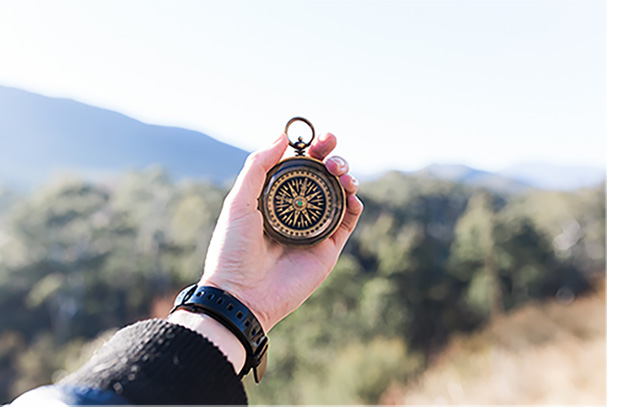
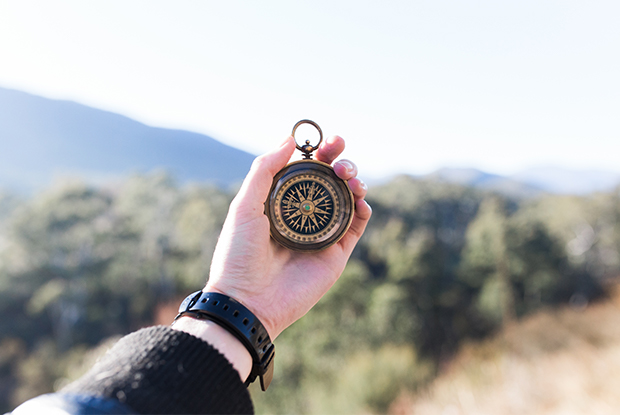
finished all tasks

diff --git a/index.html b/index.html
@@ -19,10 +19,19 @@
 					srcset="Assets/travel-images/ResizedImages/bridge-in-germany_310@ 1x.jpg,
 					Assets/travel-images/ResizedImages/bridge-in-germany_310@2x.jpg" 2x,> -->
 				<picture>
-					<source media="(min-width:400px)"
-						srcset="Assets/travel-images/ResizedImages/bridge-in-germany_310@ 1x.jpg,
+					<source media="(max-width:400px)"
+						srcset="Assets/travel-images/ResizedImages/bridge-in-germany_310@1x.jpg,
 						Assets/travel-images/ResizedImages/bridge-in-germany_310@2x.jpg 2x" />
-					<img src="http://placehold.it/300" alt="Bridge in Germany">
+					<source media="(max-width:507px)"
+						srcset="Assets/travel-images/ResizedImages/bridge-in-germany_507@1x.jpg,
+						Assets/travel-images/ResizedImages/bridge-in-germany_507@2x.jpg 2x" />
+					<source media="(min-width:508px) and (max-width: 999px)"
+						srcset="Assets/travel-images/ResizedImages/bridge-in-germany_797@1x.jpg,
+						Assets/travel-images/ResizedImages/bridge-in-germany_797@2x.jpg 2x" />
+					<source media="(min-width:1000px)"
+						srcset="Assets/travel-images/ResizedImages/bridge-in-germany_310@1x.jpg,
+						Assets/travel-images/ResizedImages/bridge-in-germany_310@2x.jpg 2x" />
+					<img src="Assets/travel-images/bridge-in-germany.jpg" alt="Bridge in Germany">
 				</picture>
 				<div class="caption">
 					<p class="author">Lukas Becker</p>
@@ -30,56 +39,168 @@
 				</div>
 			</li>
 			<li>
-				<img src="Assets/travel-images/compass.jpg" alt="compass">
+				<picture>
+					<source media="(max-width:400px)"
+						srcset="Assets/travel-images/ResizedImages/compass_310@1x.jpg,
+						Assets/travel-images/ResizedImages/compass_310@2x.jpg 2x" />
+					<source media="(max-width:507px)"
+						srcset="Assets/travel-images/ResizedImages/compass_507@1x.jpg,
+						Assets/travel-images/ResizedImages/compass_507@2x.jpg 2x" />
+					<source media="(min-width:508px) and (max-width: 999px)"
+						srcset="Assets/travel-images/ResizedImages/compass_797@1x.jpg,
+						Assets/travel-images/ResizedImages/compass_797@2x.jpg 2x" />
+					<source media="(min-width:1000px)"
+						srcset="Assets/travel-images/ResizedImages/compass_310@1x.jpg,
+						Assets/travel-images/ResizedImages/compass_310@2x.jpg 2x" />
+					<img src="Assets/travel-images/compass.jpg" alt="compass">
+				</picture>
 				<div class="caption">
 					<p class="author">Heidi Sandstrom</p>
 					<p class="town">Melbourne, Australia</p>
 				</div>
 			</li>
 			<li>
-				<img src="Assets/travel-images/dufflebag.jpg" alt="duffle bag">
+				<picture>
+					<source media="(max-width:400px)"
+						srcset="Assets/travel-images/ResizedImages/dufflebag_310@1x.jpg,
+						Assets/travel-images/ResizedImages/dufflebag_310@2x.jpg 2x" />
+					<source media="(max-width:507px)"
+						srcset="Assets/travel-images/ResizedImages/dufflebag_507@1x.jpg,
+						Assets/travel-images/ResizedImages/dufflebag_507@2x.jpg 2x" />
+					<source media="(min-width:508px) and (max-width: 999px)"
+						srcset="Assets/travel-images/ResizedImages/dufflebag_797@1x.jpg,
+						Assets/travel-images/ResizedImages/dufflebag_797@2x.jpg 2x" />
+					<source media="(min-width:1000px)"
+						srcset="Assets/travel-images/ResizedImages/dufflebag_310@1x.jpg,
+						Assets/travel-images/ResizedImages/dufflebag_310@2x.jpg 2x" />
+					<img src="Assets/travel-images/dufflebag.jpg" alt="duffle bag">
+				</picture>
 				<div class="caption">
 					<p class="author">Harsh Jadav</p>
 					<p class="town">Gandhinagar, India</p>	
 				</div>
 			</li>
 			<li>
-				<img src="Assets/travel-images/geyser-iceland.jpg" alt="Geyser in Iceland">
+				<picture>
+					<source media="(max-width:400px)"
+						srcset="Assets/travel-images/ResizedImages/geyser-iceland_310@1x.jpg,
+						Assets/travel-images/ResizedImages/geyser-iceland_310@2x.jpg 2x" />
+					<source media="(max-width:507px)"
+						srcset="Assets/travel-images/ResizedImages/geyser-iceland_507@1x.jpg,
+						Assets/travel-images/ResizedImages/geyser-iceland_507@2x.jpg 2x" />
+					<source media="(min-width:508px) and (max-width: 999px)"
+						srcset="Assets/travel-images/ResizedImages/geyser-iceland_797@1x.jpg,
+						Assets/travel-images/ResizedImages/geyser-iceland_797@2x.jpg 2x" />
+					<source media="(min-width:1000px)"
+						srcset="Assets/travel-images/ResizedImages/geyser-iceland_310@1x.jpg,
+						Assets/travel-images/ResizedImages/geyser-iceland_310@2x.jpg 2x" />
+					<img src="Assets/travel-images/geyser-iceland.jpg" alt="Geyser in Iceland">
+				</picture>
 				<div class="caption">
 					<p class="author">Gian-Reto Tarnutzer</p>
 					<p class="town">Strokkur Geyser, Selfoss, Iceland</p>
 				</div>
 			</li>
 			<li>
-				<img src="Assets/travel-images/golden-gate.jpg" alt="Golden Gate Bridge">
+				<picture>
+					<source media="(max-width:400px)"
+						srcset="Assets/travel-images/ResizedImages/geyser-iceland_310@1x.jpg,
+						Assets/travel-images/ResizedImages/golden-gate_310@2x.jpg 2x" />
+					<source media="(max-width:507px)"
+						srcset="Assets/travel-images/ResizedImages/golden-gate_507@1x.jpg,
+						Assets/travel-images/ResizedImages/golden-gate_507@2x.jpg 2x" />
+					<source media="(min-width:508px) and (max-width: 999px)"
+						srcset="Assets/travel-images/ResizedImages/golden-gate_797@1x.jpg,
+						Assets/travel-images/ResizedImages/golden-gate_797@2x.jpg 2x" />
+					<source media="(min-width:1000px)"
+						srcset="Assets/travel-images/ResizedImages/golden-gate_310@1x.jpg,
+						Assets/travel-images/ResizedImages/golden-gate_310@2x.jpg 2x" />
+					<img src="Assets/travel-images/golden-gate.jpg" alt="Golden Gate Bridge">
+				</picture>
 					<div class="caption">
 						<p class="author">Ian Schneider</p>
 						<p class="town">San Francisco, United States</p>
 					</div>
 			</li>
-			<li>
-				<img src="Assets/travel-images/mountains-clouds.jpg" alt="Mountains and Clouds">
+			<li>	
+				<picture>
+					<source media="(max-width:400px)"
+						srcset="Assets/travel-images/ResizedImages/mountains-clouds_310@1x.jpg,
+						Assets/travel-images/ResizedImages/mountains-clouds_310@2x.jpg 2x" />
+					<source media="(max-width:507px)"
+						srcset="Assets/travel-images/ResizedImages/mountains-clouds_507@1x.jpg,
+						Assets/travel-images/ResizedImages/mountains-clouds_507@2x.jpg 2x" />
+					<source media="(min-width:508px) and (max-width: 999px)"
+						srcset="Assets/travel-images/ResizedImages/mountains-clouds_797@1x.jpg,
+						Assets/travel-images/ResizedImages/mountains-clouds_797@2x.jpg 2x" />
+					<source media="(min-width:1000px)"
+						srcset="Assets/travel-images/ResizedImages/mountains-clouds_310@1x.jpg,
+						Assets/travel-images/ResizedImages/mountains-clouds_310@2x.jpg 2x" />
+					<img src="Assets/travel-images/mountains-clouds.jpg" alt="Mountains and Clouds">
+				</picture>
 				<div class="caption">
 					<p class="author">Luca Baggio</p>
 					<p class="town">Rifugio pedrotti alla Rosetta, Italy</p>
 				</div>
 			</li>
 			<li>
-				<img src="Assets/travel-images/surfboard-truck.jpg" alt="truck with surfboard">
+				<picture>
+					<source media="(max-width:400px)"
+						srcset="Assets/travel-images/ResizedImages/surfboard-truck_310@1x.jpg,
+						Assets/travel-images/ResizedImages/surfboard-truck_310@2x.jpg 2x" />
+					<source media="(max-width:507px)"
+						srcset="Assets/travel-images/ResizedImages/surfboard-truck_507@1x.jpg,
+						Assets/travel-images/ResizedImages/surfboard-truck_507@2x.jpg 2x" />
+					<source media="(min-width:508px) and (max-width: 999px)"
+						srcset="Assets/travel-images/ResizedImages/surfboard-truck_797@1x.jpg,
+						Assets/travel-images/ResizedImages/surfboard-truck_797@2x.jpg 2x" />
+					<source media="(min-width:1000px)"
+						srcset="Assets/travel-images/ResizedImages/surfboard-truck_310@1x.jpg,
+						Assets/travel-images/ResizedImages/surfboard-truck_310@2x.jpg 2x" />
+					<img src="Assets/travel-images/surfboard-truck.jpg" alt="truck with surfboard">
+				</picture>
 				<div class="caption">
 					<p class="author">Ross Sokolovski</p>
 					<p class="town">Berlin, Germany</p>
 				</div>
 			</li>
 			<li>
-				<img src="Assets/travel-images/temple-trail.jpg" alt="Trail at Temple">
+				<picture>
+					<source media="(max-width:400px)"
+						srcset="Assets/travel-images/ResizedImages/temple-trail_310@1x.jpg,
+						Assets/travel-images/ResizedImages/temple-trail_310@2x.jpg 2x" />
+					<source media="(max-width:507px)"
+						srcset="Assets/travel-images/ResizedImages/temple-trail_507@1x.jpg,
+						Assets/travel-images/ResizedImages/temple-trail_507@2x.jpg 2x" />
+					<source media="(min-width:508px) and (max-width: 999px)"
+						srcset="Assets/travel-images/ResizedImages/temple-trail_797@1x.jpg,
+						Assets/travel-images/ResizedImages/temple-trail_797@2x.jpg 2x" />
+					<source media="(min-width:1000px)"
+						srcset="Assets/travel-images/ResizedImages/temple-trail_310@1x.jpg,
+						Assets/travel-images/ResizedImages/temple-trail_310@2x.jpg 2x" />
+					<img src="Assets/travel-images/temple-trail.jpg" alt="Trail at Temple">
+				</picture>
 				<div class="caption">
 					<p class="author">Lin Mei</p>
 					<p class="town">Fushimi inari Trail, Kyöto-shi, Japan</p>
 				</div>
 			</li>
 			<li>
-				<img src="Assets/travel-images/waterfall-rainbow.jpg" alt="Waterfall and Rainbow">
+				<picture>
+					<source media="(max-width:400px)"
+						srcset="Assets/travel-images/ResizedImages/waterfall-rainbow_310@1x.jpg,
+						Assets/travel-images/ResizedImages/waterfall-rainbow_310@2x.jpg 2x" />
+					<source media="(max-width:507px)"
+						srcset="Assets/travel-images/ResizedImages/waterfall-rainbow_507@1x.jpg,
+						Assets/travel-images/ResizedImages/waterfall-rainbow_507@2x.jpg 2x" />
+					<source media="(min-width:508px) and (max-width: 999px)"
+						srcset="Assets/travel-images/ResizedImages/waterfall-rainbow_797@1x.jpg,
+						Assets/travel-images/ResizedImages/waterfall-rainbow_797@2x.jpg 2x" />
+					<source media="(min-width:1000px)"
+						srcset="Assets/travel-images/ResizedImages/waterfall-rainbow_310@1x.jpg,
+						Assets/travel-images/ResizedImages/waterfall-rainbow_310@2x.jpg 2x" />
+					<img src="Assets/travel-images/waterfall-rainbow.jpg" alt="Waterfall and Rainbow">
+				</picture>
 				<div class="caption">
 					<p class="author">Jeremy Goldberg</p>
 					<p class="town">Skógafoss, Iceland</p>

diff --git a/css/main.css b/css/main.css
@@ -77,6 +77,14 @@ h1 {
 strong {
   font-weight: bold; }
 
+@keyframes pulse {
+  0% {
+    transform: scale(1); }
+  50% {
+    transform: scale(0.9); }
+  100% {
+    transform: scale(1); } }
+
 header {
   display: -ms-flexbox;
   display: flex;
@@ -84,8 +92,12 @@ header {
       flex-direction: column;
   padding-top: 2.2rem;
   text-align: center; }
-  header img, header picture {
-    margin-bottom: 1rem; }
+  header img {
+    margin-bottom: 1rem;
+    cursor: pointer;
+    animation: pulse 3s linear infinite; }
+    header img:hover {
+      animation: none; }
   header p {
     margin-bottom: 5rem;
     color: #4c4c4c;
@@ -134,11 +146,15 @@ footer {
     width: calc(100% - 2rem);
     bottom: 1.3rem;
     color: #fff;
-    display: none; }
+    bottom: -8rem; }
   li {
     position: relative;
     display: inline-block;
     width: calc(100% / 3 - .33333333rem);
-    padding-right: 2rem; }
+    padding-right: 2rem;
+    overflow: hidden; }
     li:hover .caption {
-      display: block; } }
+      transition: .25s;
+      transition-timing-function: ease-out;
+      display: block;
+      bottom: 1.5rem; } }

diff --git a/scss/base/_base.scss b/scss/base/_base.scss
@@ -1,10 +1,21 @@
+@keyframes pulse {
+    0% { transform: scale(1); }
+    50% { transform: scale(.9); }
+    100% { transform: scale(1); }
+}
+
 header {
   display:flex;
   flex-direction:column;
   padding-top:2.2rem;
   text-align:center;
-  img, picture {
+  img {
     margin-bottom:1rem;
+    cursor: pointer;
+    animation:pulse 3s linear infinite;
+    &:hover {
+      animation:none;
+    }
   }
   p {
     margin-bottom: 5rem;
@@ -64,7 +75,7 @@ footer {
     width: calc(100% - 2rem);
     bottom:1.3rem;
     color:#fff;
-    display: none;
+    bottom:-8rem;
   }
 
   li {
@@ -72,9 +83,13 @@ footer {
     display:inline-block;
     width:calc(100% / 3 - .33333333rem);
     padding-right: 2rem;
+    overflow:hidden;
     &:hover {
       .caption {
+        transition:.25s;
+        transition-timing-function: ease-out;
         display: block;
+        bottom:1.5rem;
       }
     }
   }

diff --git a/scss/Variables/_variables.scss b/scss/Variables/_variables.scss
@@ -1,5 +1,5 @@
 $boxShadow: 10px 10px 5px #111;
-$text-color: #aaaaab;
+$primary-color: #111;
 $action-color: #f5a623;
 $dark-grey: #2c2c2c;
 $light-grey: #d8d8d8;
